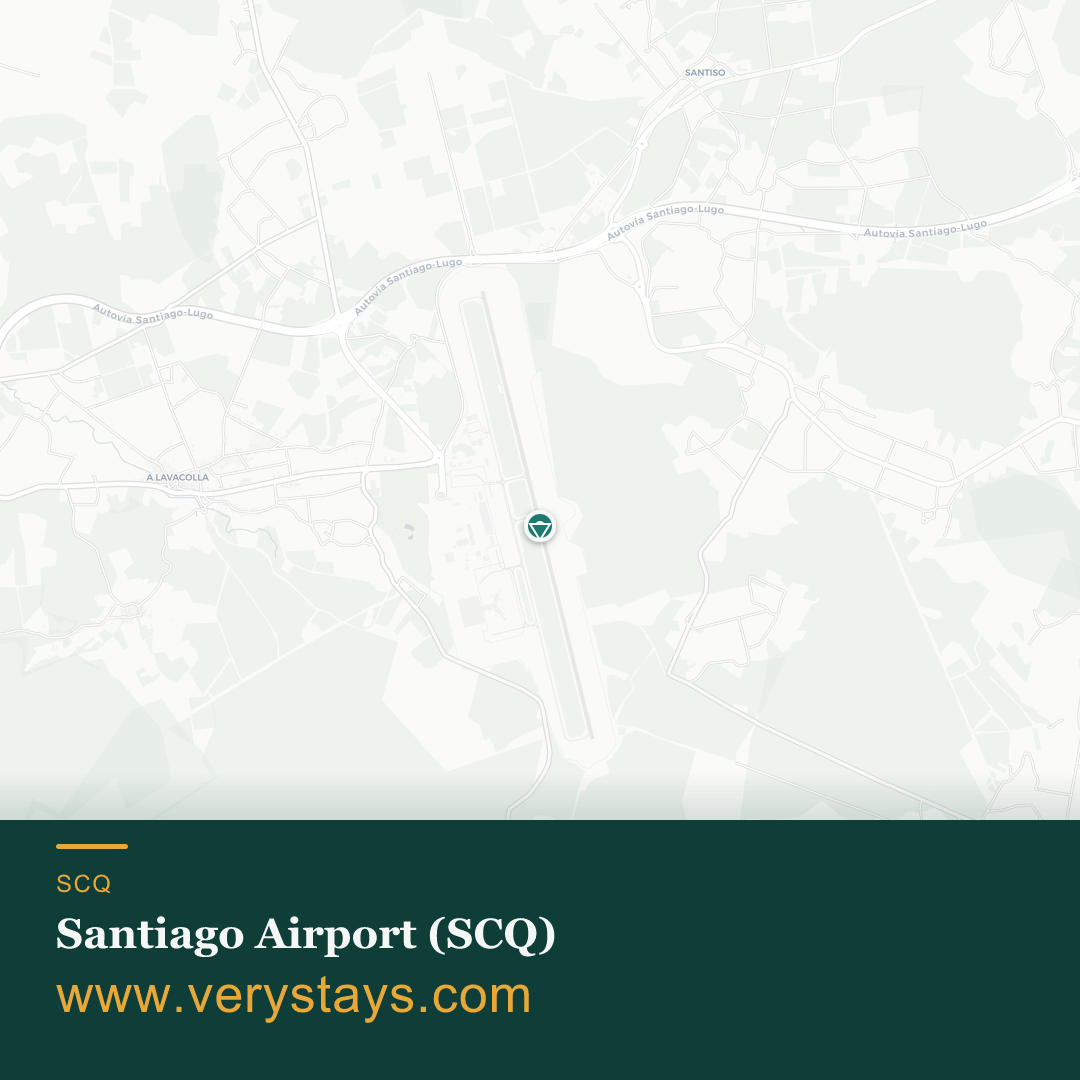
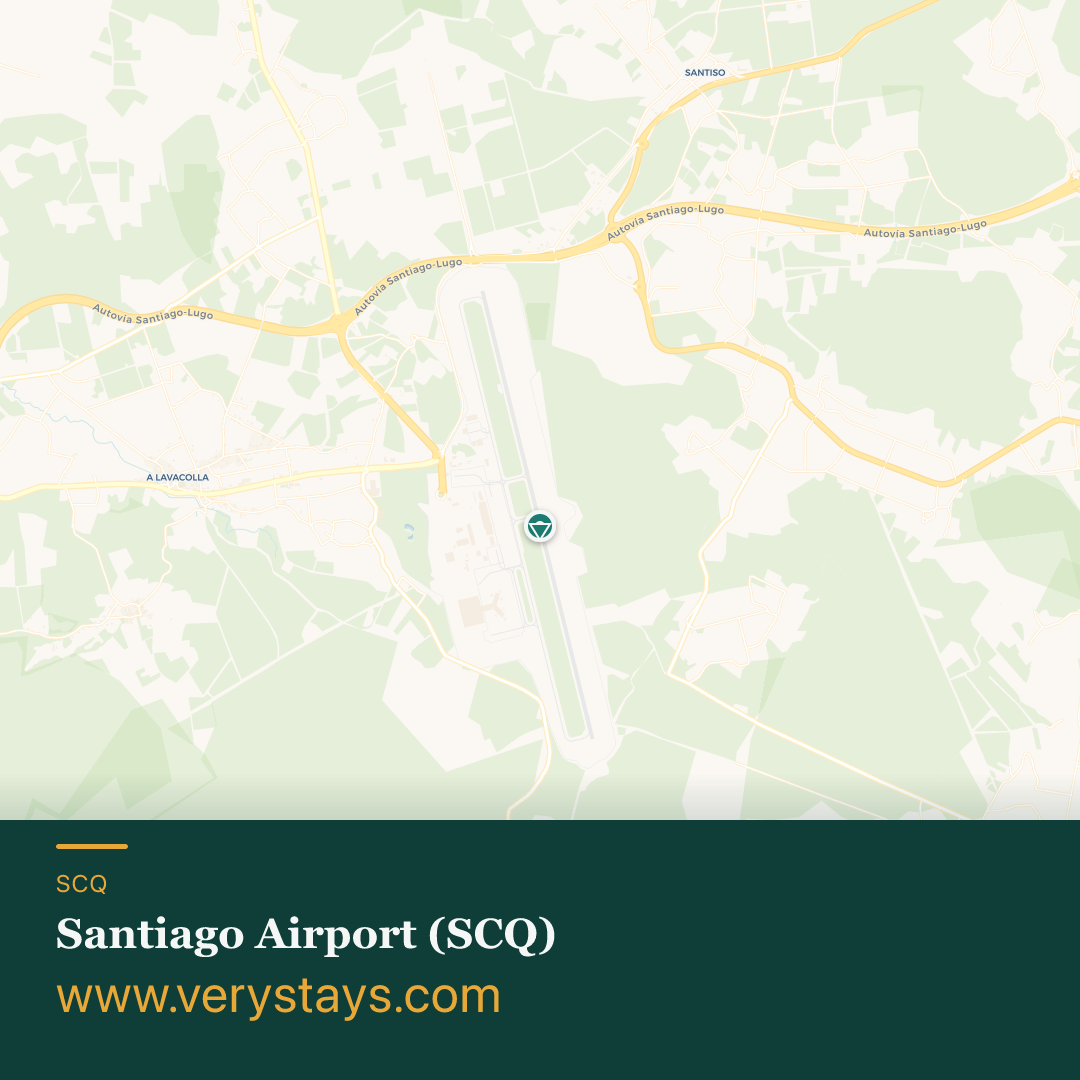
SCQ

diff --git a/index.html b/index.html
@@ -17,7 +17,15 @@
     <link
       rel="stylesheet"
       href="https://fonts.googleapis.com/css2?family=DM+Serif+Display&family=Inter:wght@400;500;600&display=swap"
+      media="print"
+      onload="this.media='all'"
     />
+    <noscript>
+      <link
+        rel="stylesheet"
+        href="https://fonts.googleapis.com/css2?family=DM+Serif+Display&family=Inter:wght@400;500;600&display=swap"
+      />
+    </noscript>
 
     <!--seo-->
     <title>Sustainable Iberian: Stations & Budget Hotels</title>
@@ -42,10 +50,17 @@
     <!--/seo-->
     <style>
       #static-app-shell {
+        position: fixed;
+        inset: 0;
+        z-index: 40;
+        overflow-y: auto;
         min-height: 100vh;
         background: #f5f7f8;
         color: #1a2a32;
         font-family: Inter, system-ui, -apple-system, sans-serif;
+      }
+      body[data-shell="active"] .shell-hide-until-ready {
+        display: none;
       }
       #static-app-shell .shell-hero {
         position: relative;
@@ -158,14 +173,14 @@
     </style>
   </head>
 
-  <body>
+  <body data-shell="active">
     <div id="root"></div>
     <div id="static-app-shell" aria-hidden="true">
       <header class="shell-hero">
         <div class="shell-hero-inner">
-          <h1 class="shell-title">Sustainable Iberian</h1>
+          <h1 class="shell-title" id="shell-title">Sustainable Iberian</h1>
           <span class="shell-accent"></span>
-          <p class="shell-subtitle">
+          <p class="shell-subtitle" id="shell-subtitle">
             Train stations and airports across Portugal and Spain, with line info and budget hotels near
             key stops.
           </p>
@@ -173,7 +188,7 @@
       </header>
       <main class="shell-main">
         <div class="shell-filter"></div>
-        <p class="shell-status">Loading stations…</p>
+        <p class="shell-status" id="shell-status">Loading stations…</p>
         <div class="shell-grid">
           <div class="shell-card">
             <div class="shell-card-image"></div>
@@ -226,6 +241,98 @@
         </div>
       </main>
     </div>
+    <script>
+      (function () {
+        var LOCALE_KEY = "portugal-by-train-locale";
+        var SCOPE_KEY = "verystays-country";
+        var COPY = {
+          en: {
+            name: "Sustainable Iberian",
+            subtitle: {
+              pt: "Train stations and airports across Portugal, from the Minho to the Algarve, with line info and budget hotels nearby.",
+              es: "Train stations and airports across mainland Spain, with line info and budget hotels near key stops.",
+              all: "Train stations and airports across Portugal and Spain, with line info and budget hotels near key stops.",
+            },
+            loading: "Loading stations…",
+          },
+          pt: {
+            name: "Mobilidade Ibérica",
+            subtitle: {
+              pt: "Estações de comboio e aeroportos em Portugal, do Minho ao Algarve, com linhas e hotéis com preços acessíveis perto.",
+              es: "Estações de comboio e aeroportos na Espanha peninsular, com linhas e hotéis com preços acessíveis perto.",
+              all: "Estações de comboio e aeroportos em Portugal e Espanha, com linhas e hotéis com preços acessíveis perto.",
+            },
+            loading: "A carregar estações…",
+          },
+          es: {
+            name: "Viaje Ibérico Sostenible",
+            subtitle: {
+              pt: "Estaciones de tren y aeropuertos en Portugal, del Miño al Algarve, con líneas y hoteles económicos cerca.",
+              es: "Estaciones de tren y aeropuertos en la España peninsular, con líneas y hoteles económicos cerca.",
+              all: "Estaciones de tren y aeropuertos en Portugal y España, con líneas y hoteles económicos cerca.",
+            },
+            loading: "Cargando estaciones…",
+          },
+          gl: {
+            name: "Viaxe Ibérica Sostible",
+            subtitle: {
+              pt: "Estacións de tren e aeroportos en Portugal, do Miño ao Algarve, con liñas e hoteis económicos preto.",
+              es: "Estacións de tren e aeroportos na España peninsular, con liñas e hoteis económicos preto.",
+              all: "Estacións de tren e aeroportos en Portugal e España, con liñas e hoteis económicos preto.",
+            },
+            loading: "Cargando estacións…",
+          },
+          ca: {
+            name: "Viatge Ibèric Sostenible",
+            subtitle: {
+              pt: "Estacions de tren i aeroports a Portugal, del Minho a l'Algarve, amb línies i hotels econòmics a prop.",
+              es: "Estacions de tren i aeroports a la península ibèrica espanyola, amb línies i hotels econòmics a prop.",
+              all: "Estacions de tren i aeroports a Portugal i Espanya, amb línies i hotels econòmics a prop.",
+            },
+            loading: "Carregant estacions…",
+          },
+        };
+
+        function detectLocale() {
+          try {
+            var stored = localStorage.getItem(LOCALE_KEY);
+            if (stored && COPY[stored]) return stored;
+          } catch (e) {}
+          var langs = navigator.languages && navigator.languages.length ? navigator.languages : [navigator.language];
+          for (var i = 0; i < langs.length; i++) {
+            var tag = String(langs[i] || "").toLowerCase();
+            var base = tag.split("-")[0];
+            if (base === "pt") return "pt";
+            if (base === "es") return "es";
+            if (base === "gl") return "gl";
+            if (base === "ca" || tag.indexOf("ca-") === 0) return "ca";
+          }
+          return "en";
+        }
+
+        function detectScope() {
+          var path = location.pathname || "/";
+          if (path.indexOf("/pt") === 0) return "pt";
+          if (path.indexOf("/es") === 0) return "es";
+          try {
+            var stored = localStorage.getItem(SCOPE_KEY);
+            if (stored === "pt" || stored === "es" || stored === "all") return stored;
+          } catch (e) {}
+          return "all";
+        }
+
+        var locale = detectLocale();
+        var scope = detectScope();
+        var strings = COPY[locale] || COPY.en;
+        var title = document.getElementById("shell-title");
+        var subtitle = document.getElementById("shell-subtitle");
+        var status = document.getElementById("shell-status");
+        if (title) title.textContent = strings.name;
+        if (subtitle) subtitle.textContent = strings.subtitle[scope] || strings.subtitle.all;
+        if (status) status.textContent = strings.loading;
+        document.documentElement.lang = locale;
+      })();
+    </script>
     <script>
       (function () {
         var key = "pn_sw_recovery";

diff --git a/src/components/AppShellFallback.tsx b/src/components/AppShellFallback.tsx
@@ -1,50 +1,28 @@
-/** Instant shell while JS bundles load or route chunks suspend. */
-export function AppShellFallback() {
-  return (
-    <div className="min-h-screen bg-[#f5f7f8] text-[#1a2a32]">
-      <header className="relative overflow-hidden bg-[#1c756c] px-4 py-12 text-white md:px-6 md:py-28">
-        <div className="absolute inset-0 bg-[#1c756c]/80" aria-hidden="true" />
-        <div className="relative mx-auto max-w-5xl">
-          <h1 className="mb-2 font-serif text-3xl tracking-tight md:mb-4 md:text-5xl">
-            Sustainable Iberian
-          </h1>
-          <p className="max-w-2xl text-lg text-white/90">
-            Train stations and airports across Portugal and Spain, with line info and budget hotels
-            near key stops.
-          </p>
-        </div>
-      </header>
+import { useLayoutEffect, type ComponentType } from "react";
 
-      <div className="mx-auto max-w-5xl px-4 py-4 md:px-6">
-        <div className="mb-4 h-10 animate-pulse rounded-lg bg-[#e2e8ee]" aria-hidden="true" />
-        <p className="mb-4 text-sm text-[#5c6f7a]">Loading stations…</p>
-        <div
-          className="grid gap-3 sm:grid-cols-2 sm:gap-4 lg:grid-cols-3"
-          aria-busy="true"
-          aria-live="polite"
-        >
-          {Array.from({ length: 9 }, (_, index) => (
-            <div
-              key={index}
-              className="overflow-hidden rounded-lg border border-[#e2e8ee] bg-white"
-            >
-              <div className="aspect-[16/9] animate-pulse bg-[#e2e8ee]" />
-              <div className="space-y-3 p-4 md:p-5">
-                <div className="h-5 w-2/3 animate-pulse rounded bg-[#e2e8ee]" />
-                <div className="h-4 w-1/2 animate-pulse rounded bg-[#e2e8ee]" />
-                <div className="flex gap-2">
-                  <div className="h-6 w-16 animate-pulse rounded-full bg-[#e2e8ee]" />
-                  <div className="h-6 w-20 animate-pulse rounded-full bg-[#e2e8ee]" />
-                </div>
-              </div>
-            </div>
-          ))}
-        </div>
-      </div>
-    </div>
-  );
+/** Keep the HTML static shell visible while route chunks load (no duplicate React fallback). */
+export function AppShellFallback() {
+  return null;
 }
 
 export function removeStaticAppShell(): void {
   document.getElementById("static-app-shell")?.remove();
+  document.body.removeAttribute("data-shell");
+}
+
+export function useDismissStaticShell(): void {
+  useLayoutEffect(() => {
+    removeStaticAppShell();
+  }, []);
+}
+
+export function withShellDismiss<P extends object>(
+  Component: ComponentType<P>,
+): ComponentType<P> {
+  function DismissShellWrapper(props: P) {
+    useDismissStaticShell();
+    return <Component {...props} />;
+  }
+  DismissShellWrapper.displayName = `DismissShell(${Component.displayName ?? Component.name ?? "Component"})`;
+  return DismissShellWrapper;
 }

diff --git a/src/App.tsx b/src/App.tsx
@@ -1,36 +1,35 @@
-import { lazy, Suspense, useEffect } from "react";
+import { lazy, Suspense, type ComponentType } from "react";
 import { QueryClient, QueryClientProvider } from "@tanstack/react-query";
 import { BrowserRouter, Route, Routes } from "react-router-dom";
 import { Toaster as Sonner } from "@/components/ui/sonner";
 import { Toaster } from "@/components/ui/toaster";
 import { TooltipProvider } from "@/components/ui/tooltip";
-import { AppShellFallback, removeStaticAppShell } from "@/components/AppShellFallback";
+import { withShellDismiss } from "@/components/AppShellFallback";
 import { ScrollToTop } from "@/components/ScrollToTop";
 import { DeferredClientBootstraps } from "@/components/DeferredClientBootstraps";
 import { LocaleProvider } from "@/i18n/LocaleProvider";
 import HomeRedirect from "./pages/HomeRedirect.tsx";
+import Index from "./pages/Index.tsx";
 import { MobileBottomNav } from "@/components/MobileBottomNav";
 
 const Analytics = lazy(() =>
   import("@vercel/analytics/react").then((module) => ({ default: module.Analytics })),
 );
 
-const Index = lazy(() => import("./pages/Index.tsx"));
-const Rankings = lazy(() => import("./pages/Rankings.tsx"));
-const Station = lazy(() => import("./pages/Station.tsx"));
-const NotFound = lazy(() => import("./pages/NotFound.tsx"));
-const Tickets = lazy(() => import("./pages/Tickets.tsx"));
-const MapPage = lazy(() => import("./pages/Map.tsx"));
-const Privacy = lazy(() => import("./pages/Privacy.tsx"));
-const Trip = lazy(() => import("./pages/Trip.tsx"));
+const lazyPage = <P extends object>(loader: () => Promise<{ default: ComponentType<P> }>) =>
+  lazy(() => loader().then((module) => ({ default: withShellDismiss(module.default) })));
+
+const Rankings = lazyPage(() => import("./pages/Rankings.tsx"));
+const Station = lazyPage(() => import("./pages/Station.tsx"));
+const NotFound = lazyPage(() => import("./pages/NotFound.tsx"));
+const Tickets = lazyPage(() => import("./pages/Tickets.tsx"));
+const MapPage = lazyPage(() => import("./pages/Map.tsx"));
+const Privacy = lazyPage(() => import("./pages/Privacy.tsx"));
+const Trip = lazyPage(() => import("./pages/Trip.tsx"));
 
 const queryClient = new QueryClient();
 
 const App = () => {
-  useEffect(() => {
-    removeStaticAppShell();
-  }, []);
-
   return (
     <QueryClientProvider client={queryClient}>
       <LocaleProvider>
@@ -41,7 +40,7 @@ const App = () => {
             <ScrollToTop />
             <DeferredClientBootstraps />
             <div className="pb-24 sm:pb-0">
-              <Suspense fallback={<AppShellFallback />}>
+              <Suspense fallback={null}>
                 <Routes>
                   <Route path="/" element={<HomeRedirect />} />
                   <Route path="/all" element={<Index />} />

diff --git a/src/test/mapBasemaps.test.ts b/src/test/mapBasemaps.test.ts
@@ -2,7 +2,9 @@ import { describe, expect, it } from "vitest";
 import {
   BASEMAP_IDS,
   getBasemap,
+  randomAirportBasemap,
   randomBasemap,
+  resolveAirportBasemap,
   resolveBasemap,
 } from "../../scripts/lib/mapBasemaps.mjs";
 
@@ -39,5 +41,20 @@ describe("mapBasemaps", () => {
     expect(counts.opentopomap).toBeGreaterThan(counts.osm);
     expect(counts.opentopomap).toBeGreaterThan(counts["carto-positron"]);
     expect(counts.opentopomap).toBeGreaterThan(counts["carto-voyager"]);
+  });
+
+  it("excludes opentopomap from airport connection basemaps", () => {
+    const picks = new Set(
+      Array.from({ length: 40 }, (_, index) => randomAirportBasemap(() => index / 40).id),
+    );
+    expect(picks.has("opentopomap")).toBe(false);
+    for (const id of picks) {
+      expect(["osm", "carto-positron", "carto-voyager"]).toContain(id);
+    }
+  });
+
+  it("rejects opentopomap for airport connection maps", () => {
+    expect(() => resolveAirportBasemap("opentopomap")).toThrow(/not supported/);
+    expect(resolveAirportBasemap("carto-voyager").id).toBe("carto-voyager");
   });
 });

diff --git a/src/components/MobileBottomNav.tsx b/src/components/MobileBottomNav.tsx
@@ -78,7 +78,7 @@ export function MobileBottomNav() {
     <nav
       className={cn(
         // iOS-like tab bar: frosted background + top hairline + subtle shadow
-        "fixed inset-x-0 bottom-0 z-30 border-t border-border/60 bg-background/80 backdrop-blur-xl supports-[backdrop-filter]:bg-background/70",
+        "shell-hide-until-ready fixed inset-x-0 bottom-0 z-30 border-t border-border/60 bg-background/80 backdrop-blur-xl supports-[backdrop-filter]:bg-background/70",
         "shadow-[0_-8px_24px_rgba(0,0,0,0.08)]",
         "sm:hidden",
       )}

diff --git a/src/pages/Index.tsx b/src/pages/Index.tsx
@@ -14,6 +14,7 @@ import { SitePageNavLinks } from "@/components/SitePageNavLinks";
 import { buildHomeStructuredData } from "@/lib/structuredData";
 import { PageHead } from "@/components/PageHead";
 import { getHomePageMeta } from "@/lib/pageMeta";
+import { useDismissStaticShell } from "@/components/AppShellFallback";
 import { useLocale } from "@/i18n/LocaleProvider";
 import { useGlobalStationRatings } from "@/hooks/useGlobalStationRatings";
 import { useAllVotes } from "@/hooks/useStationVote";
@@ -38,6 +39,7 @@ type VoteFilter = "up" | "down" | "none";
 type VisitedFilter = "visited" | "notVisited";
 
 function HomePage({ scope, currentPage }: { scope: HomeScope; currentPage: number }) {
+  useDismissStaticShell();
   const { t, plural, locale, messages } = useLocale();
   const { searchQuery, setScope, setPage, setSearchQuery, goToFirstPage } = useHomeRoute(
     scope,